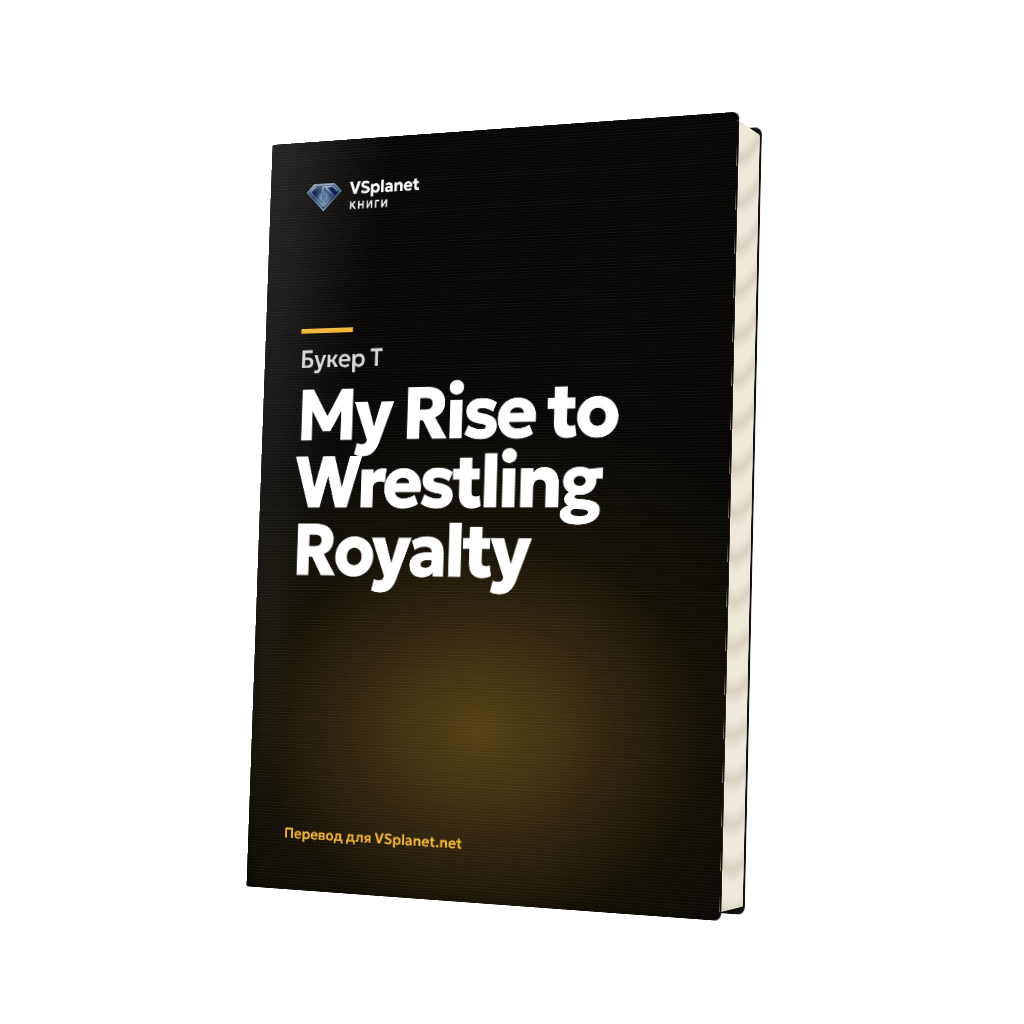
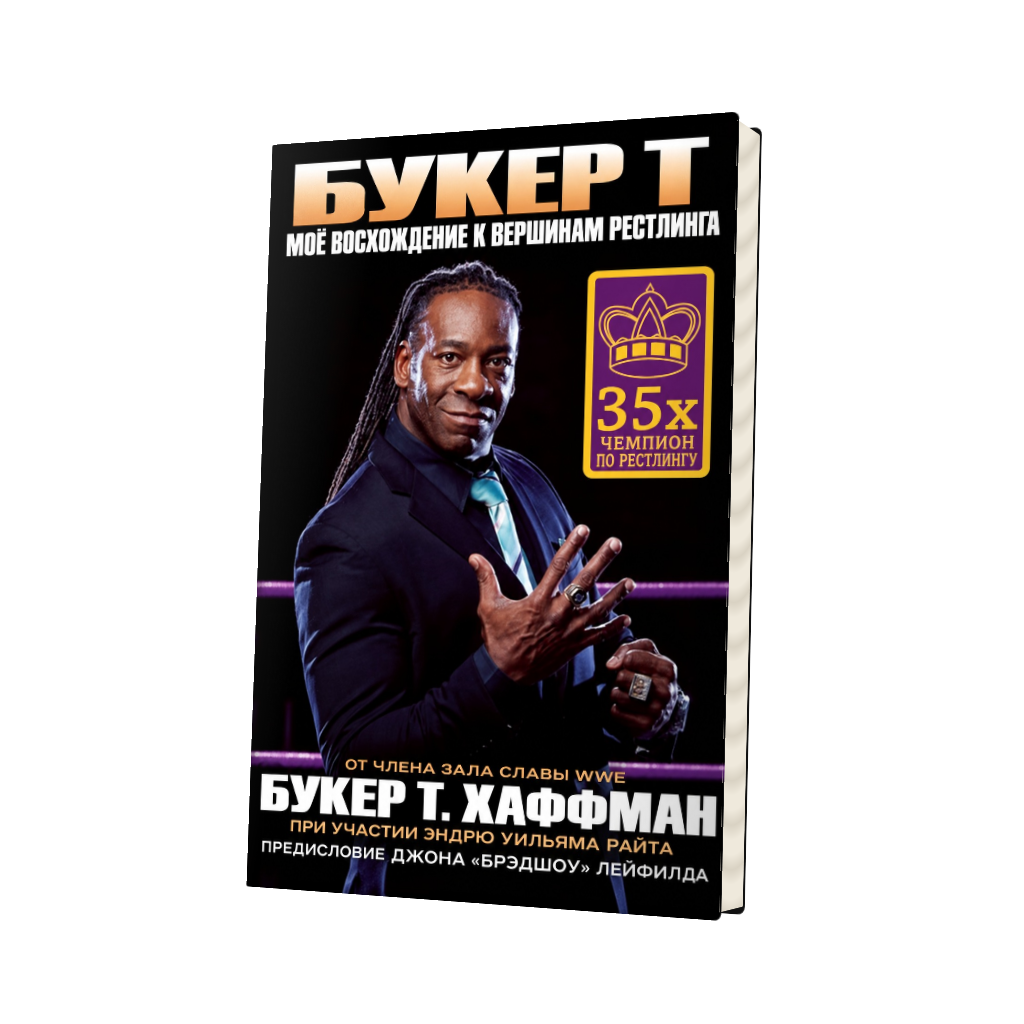
Фабрика: обложки Hart/Booker2/Holly, темы по обложкам
Claude-Session: https://claude.ai/code/session_01XnyvzyKL5kQ5CueCEbSQFf

Changed region(s): [[0.25, 0.125, 0.7188, 0.9062]]

diff --git a/factory/scripts/themes.py b/factory/scripts/themes.py
@@ -1,9 +1,13 @@
 """Цветовые темы книг. vs — по умолчанию (логотип VSplanet). Добавляйте тематические пресеты сюда."""
 THEMES = {
     'vs':   {'accent_fill': 'linear-gradient(180deg,#c3d8ef 0%,#8fb2db 45%,#5f87b9 100%)', 'accent': '#7fa6d4', 'accent_hi': '#a5c3e6', 'accent_deep': '#2f5b8f', 'accent_ink': '#06101f', 'bg': '#03060c', 'surface': '#0b111d', 'surface_2': '#121a2a', 'reader_bg': '#070b13'},
-    'hart': {'accent': '#ff3d9a', 'accent_hi': '#ff6fb5', 'accent_deep': '#b0105e', 'accent_ink': '#ffffff', 'bg': '#050305', 'surface': '#120a10', 'surface_2': '#1c1019', 'reader_bg': '#0b070a'},
-    'booker': {'accent': '#f2b632', 'accent_hi': '#ffd36b', 'accent_deep': '#a8740a', 'accent_ink': '#140c00', 'bg': '#060503', 'surface': '#13100a', 'surface_2': '#1d1810', 'reader_bg': '#0b0906'},
-    'jericho': {'accent': '#ffe11a', 'accent_hi': '#fff06b', 'accent_deep': '#b89a00', 'accent_ink': '#1a1500', 'bg': '#060503', 'surface': '#13110a', 'surface_2': '#1d1a10', 'reader_bg': '#0b0a06'},
+    'hart': {'accent': '#ef2a95', 'accent_hi': '#ff62b6', 'accent_deep': '#a1105f', 'accent_ink': '#ffffff', 'bg': '#0a0605', 'surface': '#17100d', 'surface_2': '#221813', 'reader_bg': '#0e0908'},
+    'booker_prison': {'accent': '#f2994a', 'accent_hi': '#ffbf85', 'accent_deep': '#a85a14', 'accent_ink': '#140a00', 'bg': '#060505', 'surface': '#131110', 'surface_2': '#1d1a18', 'reader_bg': '#0b0a09'},
+    'royalty': {'accent': '#f5b638', 'accent_hi': '#ffd77a', 'accent_deep': '#6a2f9a', 'accent_ink': '#150b00', 'bg': '#07040b', 'surface': '#130c1c', 'surface_2': '#1d1329', 'reader_bg': '#0b0710'},
+    'holly': {'accent': '#c8442f', 'accent_hi': '#ec6a52', 'accent_deep': '#7e2418', 'accent_ink': '#ffffff', 'bg': '#050607', 'surface': '#111314', 'surface_2': '#1b1e20', 'reader_bg': '#0a0c0d'},
+    'heenan': {'accent': '#f5d30f', 'accent_hi': '#ffe95c', 'accent_deep': '#b3141c', 'accent_ink': '#171100', 'bg': '#080606', 'surface': '#151211', 'surface_2': '#1f1a19', 'reader_bg': '#0c0a09'},
+    'wcw': {'accent': '#e9e6df', 'accent_hi': '#ffffff', 'accent_deep': '#c4161c', 'accent_ink': '#0b0b0d', 'bg': '#050507', 'surface': '#101014', 'surface_2': '#19191f', 'reader_bg': '#09090c'},
+    'jericho': {'accent': '#ffe11a', 'accent_hi': '#fff06b', 'accent_deep': '#cb0e27', 'accent_ink': '#1a1500', 'bg': '#0a0304', 'surface': '#170709', 'surface_2': '#220b0e', 'reader_bg': '#0e0506'},
     'lesnar': {'accent': '#e5212b', 'accent_hi': '#ff5961', 'accent_deep': '#a3121a', 'accent_ink': '#ffffff', 'bg': '#050505', 'surface': '#111111', 'surface_2': '#1a1a1a', 'reader_bg': '#0a0a0a'},
     'copeland': {'accent': '#f6e7a6', 'accent_hi': '#fff3c4', 'accent_deep': '#b8142a', 'accent_ink': '#1a0507', 'bg': '#090304', 'surface': '#160a0c', 'surface_2': '#210f12', 'reader_bg': '#0e0506'},
     'flair': {'accent': '#a98bff', 'accent_hi': '#c6b2ff', 'accent_deep': '#5b3bb8', 'accent_ink': '#0d0620', 'bg': '#06040c', 'surface': '#100c1b', 'surface_2': '#191328', 'reader_bg': '#0a0711'},
